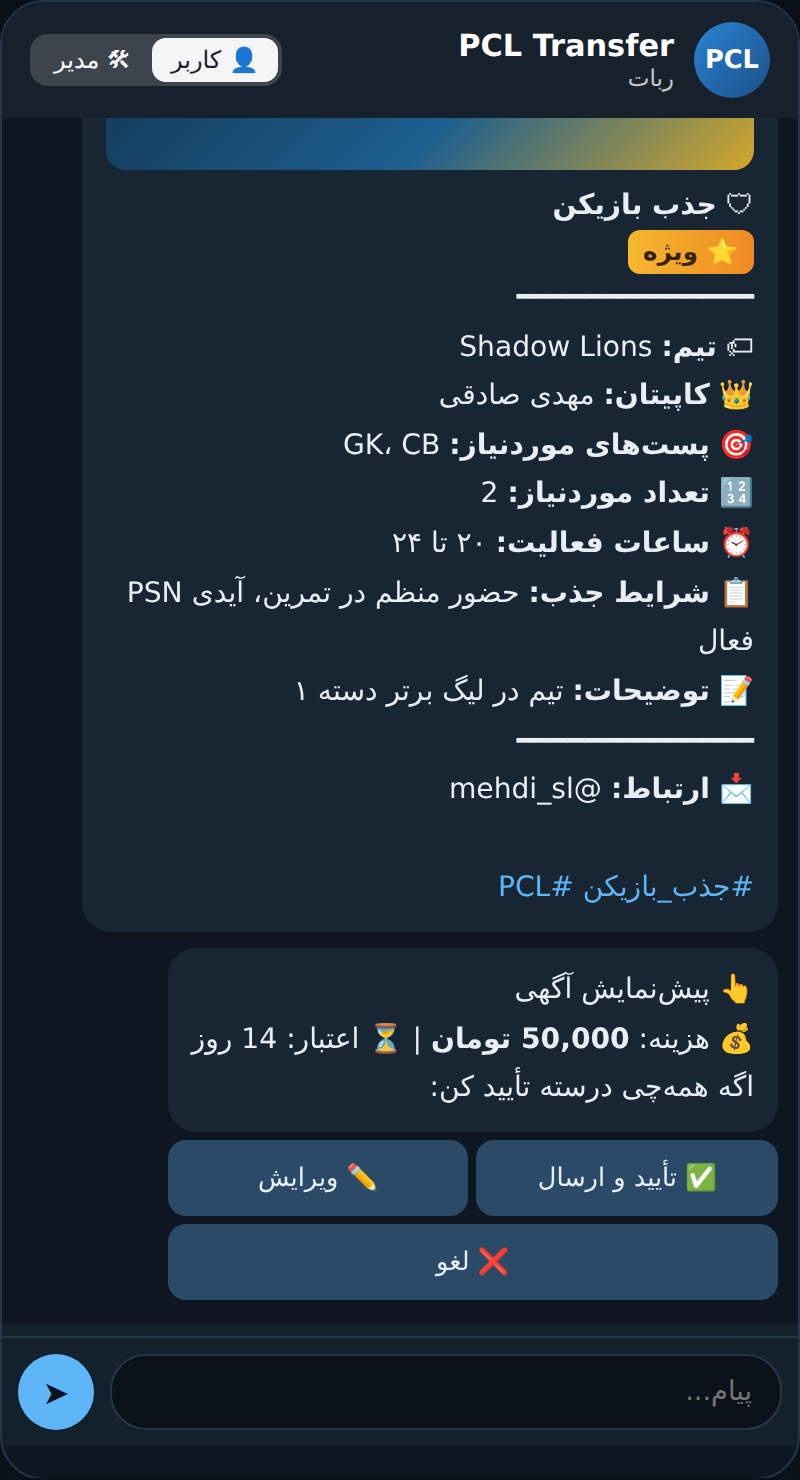
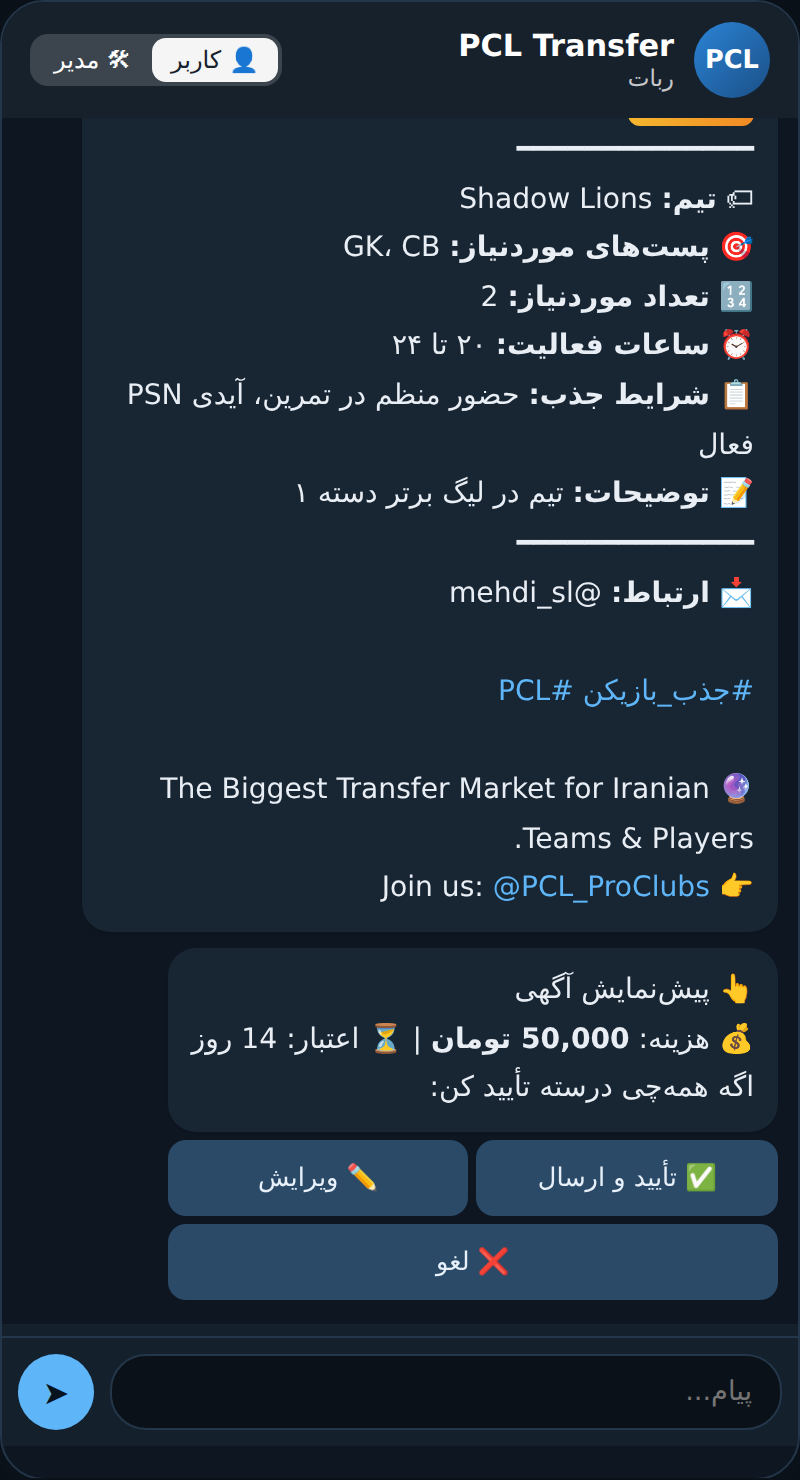
Team ad: title 'آگهی جذب بازیکن' and drop captain name field
The captain's Telegram ID stays as the contact line.

Claude-Session: https://claude.ai/code/session_01EM746abNYmdLe7nAFDnghT

diff --git a/demo/index.html b/demo/index.html
@@ -94,10 +94,10 @@ const fmt=n=>n.toLocaleString('en-US')+' تومان';
 const L='━━━━━━━━━━━━━━';
 const FIELDS={
  player:[['name','👤 نام بازیکن'],['psn','🆔 آیدی PSN یا EA ID'],['pos1','🎯 پست اصلی'],['pos2','🎯 پست دوم'],['history','🏟 سابقه حضور در تیمها'],['honors','🏆 افتخارات بازیکن'],['hours','⏰ ساعات فعالیت'],['notes','📝 توضیحات تکمیلی'],['photo','🖼 تصویر کارت بازیکن']],
- team:[['team','🛡 نام تیم'],['logo','🖼 لوگوی تیم'],['captain','👑 نام کاپیتان'],['captain_tg','✈ آیدی تلگرام کاپیتان'],['positions','🎯 پستهای موردنیاز'],['count','🔢 تعداد بازیکنان موردنیاز'],['hours','⏰ ساعات فعالیت'],['terms','📋 شرایط جذب'],['notes','📝 توضیحات تکمیلی']]};
+ team:[['team','🛡 نام تیم'],['logo','🖼 لوگوی تیم'],['captain_tg','✈ آیدی تلگرام کاپیتان'],['positions','🎯 پستهای موردنیاز'],['count','🔢 تعداد بازیکنان موردنیاز'],['hours','⏰ ساعات فعالیت'],['terms','📋 شرایط جذب'],['notes','📝 توضیحات تکمیلی']]};
 const OPT=['photo','logo','notes'];
 const SAMPLE={player:{name:'امیرحسین کریمی',psn:'Amir_CAM10',pos1:'CAM',pos2:'CM',history:'Phoenix FC، Iron Wolves',honors:'قهرمان لیگ دسته ۲ فصل ۱۴',hours:'۲۱ تا ۲۴',notes:'بازیکن تیمی، میکروفون دارم',photo:'card'},
- team:{team:'Shadow Lions',logo:'card',captain:'مهدی صادقی',captain_tg:'@mehdi_sl',positions:'GK، CB',count:'2',hours:'۲۰ تا ۲۴',terms:'حضور منظم در تمرین، آیدی PSN فعال',notes:'تیم در لیگ برتر دسته ۱'}};
+ team:{team:'Shadow Lions',logo:'card',captain_tg:'@mehdi_sl',positions:'GK، CB',count:'2',hours:'۲۰ تا ۲۴',terms:'حضور منظم در تمرین، آیدی PSN فعال',notes:'تیم در لیگ برتر دسته ۱'}};
 const BADGES=[['🥉','برنزی',5],['🥈','نقرهای',15],['🥇','طلایی',30],['💎','الماسی',50],['👑','افسانهای',100]];
 const NAMES={price_normal:'تعرفه ثبت عادی',price_special:'تعرفه ثبت ویژه',renew_normal:'تعرفه تمدید عادی',renew_special:'تعرفه تمدید ویژه',upgrade_price:'تعرفه ارتقا به ویژه',days_normal:'اعتبار عادی (روز)',days_special:'اعتبار ویژه (روز)',referral_reward:'پاداش دعوت'};
 let S;
@@ -130,7 +130,7 @@ function groupView(){
 function adHtml(a,prev){
  const d=a.d,st=a.special?`<span class="star">⭐ ویژه</span>\n`:'';
  if(a.kind==='player')return `🎮 <b>بازیکن آزاد</b>\n${st}${L}\n👤 <b>نام:</b> ${esc(d.name)}\n🆔 <b>آیدی:</b> <code>${esc(d.psn)}</code>\n🎯 <b>پست اصلی:</b> ${esc(d.pos1)}\n🎯 <b>پست دوم:</b> ${esc(d.pos2)}\n🏟 <b>سوابق:</b> ${esc(d.history)}\n🏆 <b>افتخارات:</b> ${esc(d.honors)}\n⏰ <b>ساعات فعالیت:</b> ${esc(d.hours)}\n${d.notes?`📝 <b>توضیحات:</b> ${esc(d.notes)}\n`:''}${L}\n📩 <b>ارتباط:</b> @ali_pcl\n\n<span class="tag">#بازیکن_آزاد #PCL</span>\n\n🔮 The Biggest Transfer Market for Iranian Teams &amp; Players.\n👉 Join us: <span class="tag">@PCL_ProClubs</span>`;
- return `🛡 <b>جذب بازیکن</b>\n${st}${L}\n🏷 <b>تیم:</b> ${esc(d.team)}\n👑 <b>کاپیتان:</b> ${esc(d.captain)}\n🎯 <b>پستهای موردنیاز:</b> ${esc(d.positions)}\n🔢 <b>تعداد موردنیاز:</b> ${esc(d.count)}\n⏰ <b>ساعات فعالیت:</b> ${esc(d.hours)}\n📋 <b>شرایط جذب:</b> ${esc(d.terms)}\n${d.notes?`📝 <b>توضیحات:</b> ${esc(d.notes)}\n`:''}${L}\n📩 <b>ارتباط:</b> ${esc(d.captain_tg)}\n\n<span class="tag">#جذب_بازیکن #PCL</span>\n\n🔮 The Biggest Transfer Market for Iranian Teams &amp; Players.\n👉 Join us: <span class="tag">@PCL_ProClubs</span>`}
+ return `🛡 <b>آگهی جذب بازیکن</b>\n${st}${L}\n🏷 <b>تیم:</b> ${esc(d.team)}\n🎯 <b>پستهای موردنیاز:</b> ${esc(d.positions)}\n🔢 <b>تعداد موردنیاز:</b> ${esc(d.count)}\n⏰ <b>ساعات فعالیت:</b> ${esc(d.hours)}\n📋 <b>شرایط جذب:</b> ${esc(d.terms)}\n${d.notes?`📝 <b>توضیحات:</b> ${esc(d.notes)}\n`:''}${L}\n📩 <b>ارتباط:</b> ${esc(d.captain_tg)}\n\n<span class="tag">#جذب_بازیکن #PCL</span>\n\n🔮 The Biggest Transfer Market for Iranian Teams &amp; Players.\n👉 Join us: <span class="tag">@PCL_ProClubs</span>`}
 const BK=(to='menu',t='🔙 بازگشت')=>[[t,to]];
 const STT={pending:'⏳ در انتظار تأیید',approved:'✅ تأییدشده و منتشرشده',rejected:'❌ ردشده',expired:'⌛ منقضیشده'};
 function menu(){

diff --git a/pclbot/texts.py b/pclbot/texts.py
@@ -16,7 +16,6 @@ PLAYER_FIELDS = [
 TEAM_FIELDS = [
     ("team", "🛡 نام تیم", "text"),
     ("logo", "🖼 لوگوی تیم", "photo"),
-    ("captain", "👑 نام کاپیتان", "text"),
     ("captain_tg", "✈ آیدی تلگرام کاپیتان", "text"),
     ("positions", "🎯 پستهای موردنیاز", "text"),
     ("count", "🔢 تعداد بازیکنان موردنیاز", "text"),
@@ -98,9 +97,8 @@ def render_ad(ad: dict, user: dict | None = None, preview: bool = False) -> str:
         tags = "#بازیکن_آزاد #PCL"
     else:
         body = (
-            f"🛡 <b>جذب بازیکن</b>\n{star}{line}\n"
+            f"🛡 <b>آگهی جذب بازیکن</b>\n{star}{line}\n"
             f"🏷 <b>تیم:</b> {e(d.get('team'))}\n"
-            f"👑 <b>کاپیتان:</b> {e(d.get('captain'))}\n"
             f"🎯 <b>پستهای موردنیاز:</b> {e(d.get('positions'))}\n"
             f"🔢 <b>تعداد موردنیاز:</b> {e(d.get('count'))}\n"
             f"⏰ <b>ساعات فعالیت:</b> {e(d.get('hours'))}\n"
